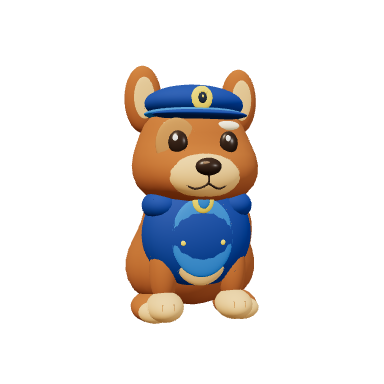
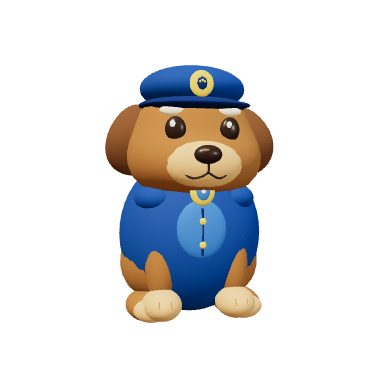
Polish the three branded friends to match their shows
Chase: swap the pointy upright ears for big floppy dark-brown ones,
build a proper police cap (dome, band, brim, paw badge) and a fitted
navy jacket that actually wraps the torso with a light-blue chest
panel, zipper, buttons, shoulder patches, plus the pup pack and a
collar badge.

Jett: enlarge the white face and eyes, widen the signature grin and
happy mouth, add the light-blue windshield band on the forehead, and
sweep the wings wider with bigger engine pods.

Peppa: dress up the red dress with gold hem ring, collar trim, wave
stripe and flower dots, and pin a five-petal red flower by the ear.

Expressions/performance/personality: add character signature shows
(policeSalute + pupSpin for Chase, jettLoop for Jett, pigGiggle for
Peppa), refresh the character descriptions, victory lines and home
hints, and give Peppa her own oinking synth voice instead of the
borrowed bunny one. All rig pivot names unchanged.

Changed region(s): [[0.25, 0.1562, 0.7188, 0.8438]]

diff --git a/src/newFriendsModel.js b/src/newFriendsModel.js
@@ -90,21 +90,58 @@ export function createMcqueenModel(){
  pivot(root,'Tail',[0,.4,-.65]);return root;
 }
 
-// A blue-uniform rescue pup and a red-and-white airplane friend.
+// A blue-uniform rescue pup: floppy dark ears, proper police cap and a fitted jacket.
+function chaseFloppyEar(){
+ const g=new THREE.SphereGeometry(1,24,28),p=g.attributes.position;
+ for(let i=0;i<p.count;i++){const t=(1-p.getY(i))/2;
+  p.setXYZ(i,p.getX(i)*(.105+.055*t),-.36*t,p.getZ(i)*.062+.05*Math.sin(t*Math.PI));}
+ g.computeVertexNormals();return g;
+}
 export function createChaseModel(){
  const root=createDogModel();root.name='Chase_Rescue_Pup';
- const brown=mat(0xa96332,.95),tan=mat(0xe9b77d,.95),navy=mat(0x224c98,.78),blue=mat(0x347ed0,.72),gold=mat(0xf3cd52,.55),ink=mat(0x263447,.6);
+ const brown=mat(0xa9723e,.95),tan=mat(0xe9b77d,.95),earBrown=mat(0x7c5231,.95),
+  navy=mat(0x2453a0,.8),deep=mat(0x1a3c78,.85),sky=mat(0x3f7fd6,.72),
+  gold=mat(0xf3cd52,.55),ink=mat(0x263447,.6),white=mat(0xf5f8ff,.5);
+ // 毛色：金棕身体 + 浅棕口鼻/胸口/爪尖/尾尖
  for(const name of ['Puppy_Plump_Body','Puppy_Head','Foreleg','Hind_Paw','Wagging_Tail'])root.traverse(o=>{if(o.name===name&&o.isMesh)o.material=brown;});
  for(const name of ['Cream_Chest','Cream_Muzzle','Cream_Forepaw','Cream_Hind_Toes','Cream_Tail_Tip'])root.traverse(o=>{if(o.name===name&&o.isMesh)o.material=tan;});
- for(const side of ['L','R']){const ear=root.getObjectByName('Ear_'+side);ear.clear();const s=side==='L'?-1:1;const outer=ellipsoid(ear,'Chase_Pointy_Ear',brown,[s*.015,.10,0],[.10,.18,.07]);outer.rotation.z=-s*.16;const inner=ellipsoid(ear,'Chase_Inner_Ear',tan,[s*.015,.10,.065],[.055,.11,.012]);inner.rotation.z=-s*.16;}
- const body=root.getObjectByName('Torso');ellipsoid(body,'Blue_Rescue_Vest',navy,[0,.05,.13],[.29,.29,.17]);ellipsoid(body,'Vest_Front',blue,[0,.045,.265],[.16,.20,.025]);
- const pack=mesh(new RoundedBoxGeometry(.42,.34,.18,4,.06),navy,body,'Rescue_Backpack',[0,.12,-.23]);
- ellipsoid(body,'Backpack_Top',blue,[0,.29,-.23],[.15,.04,.11]);
- for(const s of [-1,1]){ellipsoid(body,'Vest_Shoulder',navy,[s*.19,.20,.14],[.10,.08,.11]);ellipsoid(body,'Uniform_Button',gold,[s*.10,.02,.285],[.014,.014,.008]);}
- const head=root.getObjectByName('Head');const hat=pivot(head,'Police_Cap',[0,.25,-.005]);ellipsoid(hat,'Cap_Crown',navy,[0,.02,0],[.27,.105,.22]);ellipsoid(hat,'Cap_Band',blue,[0,-.035,.015],[.27,.038,.225]);ellipsoid(hat,'Cap_Brim',navy,[0,-.05,.17],[.245,.025,.12]);
- ellipsoid(hat,'Cap_Badge',gold,[0,.03,.213],[.055,.06,.014]);ellipsoid(hat,'Badge_Center',ink,[0,.03,.227],[.022,.028,.008]);
- for(const [x,y] of [[0,.035],[-.016,.055],[0,.061],[.016,.055]])ellipsoid(hat,'Cap_Paw',gold,[x,y,.238],[.006,.007,.004]);
- const bow=root.getObjectByName('Bow');bow.clear();ellipsoid(bow,'Collar_Badge',gold,[0,0,.035],[.055,.066,.02]);ellipsoid(bow,'Badge_Inset',blue,[0,0,.054],[.03,.04,.008]);
+ const patch=root.getObjectByName('Honey_Eye_Patch');if(patch)patch.visible=false;
+ const chest=root.getObjectByName('Cream_Chest');if(chest)chest.visible=false;
+ // 标志性大垂耳：深棕色，从头两侧自然垂到脸颊
+ for(const side of ['L','R']){
+  const earPivot=root.getObjectByName('Ear_'+side);earPivot.clear();earPivot.rotation.set(0,0,0);
+  const s=side==='L'?-1:1;earPivot.rotation.z=s*.16;
+  mesh(chaseFloppyEar(),earBrown,earPivot,'Chase_Floppy_Ear');
+ }
+ // 合身蓝色警服：外壳式夹克包住背部和两侧，浅蓝胸襟 + 纽扣 + 肩章
+ const body=root.getObjectByName('Torso');
+ ellipsoid(body,'Blue_Rescue_Vest',navy,[0,.01,-.02],[.365,.405,.30]);
+ ellipsoid(body,'Vest_Front',sky,[0,.05,.262],[.12,.14,.032]);
+ curve(body,'Vest_Zipper',[[0,-.07,.288],[0,.15,.288]],.007,deep);
+ for(const s of [-1,1]){
+  ellipsoid(body,'Vest_Shoulder',navy,[s*.195,.19,.10],[.105,.075,.115]);
+  ellipsoid(body,'Shoulder_Patch',sky,[s*.21,.20,.10],[.05,.035,.075]);
+ }
+ for(const y of [.09,-.02])ellipsoid(body,'Uniform_Button',gold,[0,y,.292],[.017,.017,.009]);
+ // 背部警用背包 + 顶部警灯
+ mesh(new RoundedBoxGeometry(.40,.32,.16,4,.06),deep,body,'Rescue_Backpack',[0,.10,-.30]);
+ ellipsoid(body,'Backpack_Top',navy,[0,.27,-.28],[.14,.045,.10]);
+ ellipsoid(body,'Backpack_Light',gold,[0,.29,-.20],[.032,.032,.016]);
+ // 立体警帽：圆顶 + 帽墙 + 帽檐 + 金色爪印警徽
+ const head=root.getObjectByName('Head');const hatNode=pivot(head,'Police_Cap',[0,.24,-.005]);
+ ellipsoid(hatNode,'Cap_Crown',navy,[0,.035,0],[.265,.115,.23]);
+ ellipsoid(hatNode,'Cap_Band',deep,[0,-.05,.005],[.272,.042,.238]);
+ ellipsoid(hatNode,'Cap_Brim',deep,[0,-.062,.17],[.25,.026,.125]);
+ ellipsoid(hatNode,'Cap_Visor_Glint',sky,[0,-.058,.20],[.16,.012,.06]);
+ ellipsoid(hatNode,'Cap_Badge',gold,[0,.03,.222],[.058,.062,.015]);
+ ellipsoid(hatNode,'Badge_Center',deep,[0,.03,.236],[.024,.03,.008]);
+ for(const [x,y,r] of [[0,.042,.007],[-.014,.056,.006],[.014,.056,.006],[-.011,.036,.006],[.011,.036,.006]])
+  ellipsoid(hatNode,'Cap_Paw',gold,[x,y,.242],[r,r*1.1,.004]);
+ // 胸前警徽（挂在 Bow 节点，动画兼容）
+ const bow=root.getObjectByName('Bow');bow.clear();
+ ellipsoid(bow,'Collar_Badge',gold,[0,0,.035],[.06,.068,.02]);
+ ellipsoid(bow,'Badge_Inset',sky,[0,0,.054],[.032,.042,.008]);
+ ellipsoid(bow,'Badge_Star',white,[0,0,.062],[.012,.012,.005]);
  return root;
 }
 export function createJettModel(){
@@ -119,8 +156,11 @@ export function createJettModel(){
  }
  const head=pivot(root,'Head',[0,.93,.02]);
  ellipsoid(head,'Red_Airplane_Head',red,[0,0,0],[.33,.29,.27]);
- ellipsoid(head,'Friendly_Face',white,[0,-.04,.21],[.26,.19,.08]);
- ellipsoid(head,'Helmet_Center',white,[0,.24,.06],[.07,.038,.18]);
+ // 大白脸：占头部下半大部分，乐迪的招牌圆润笑脸
+ ellipsoid(head,'Friendly_Face',white,[0,-.045,.215],[.285,.215,.085]);
+ // 额头蓝色风挡色带
+ ellipsoid(head,'Helmet_Center',mat(0x7cc4ee,.4),[0,.20,.165],[.205,.058,.105]);
+ ellipsoid(head,'Windshield_Glint',white,[0,.215,.24],[.10,.018,.02]);
  const topFinShape=new THREE.Shape();topFinShape.moveTo(-.02,0);topFinShape.lineTo(0,.13);topFinShape.lineTo(.04,0);topFinShape.closePath();
  const topFin=mesh(new THREE.ExtrudeGeometry(topFinShape,{depth:.018,bevelEnabled:true,bevelSize:.006,bevelThickness:.005}),red,head,'Head_Top_Fin',[0,.24,.02]);
  topFin.rotation.y=Math.PI/2;
@@ -128,14 +168,14 @@ export function createJettModel(){
  ellipsoid(head,'Helmet_Brow',red,[0,.115,.22],[.26,.05,.08]);
  const eyes=pivot(head,'Eyes',[0,0,0]);
  for(const s of [-1,1]){
-  const eye=pivot(eyes,s<0?'Eye_L':'Eye_R',[s*.115,.01,.265]);
-  ellipsoid(eye,'Eye_White',white,[0,0,0],[.055,.072,.025]);
-  ellipsoid(eye,'Iris',blue,[0,-.006,.016],[.042,.055,.014]);
-  ellipsoid(eye,'Eye',dark,[0,-.008,.024],[.024,.035,.01]);
-  ellipsoid(eye,'Catchlight',white,[-.014,.018,.032],[.012,.014,.005]);
-  ellipsoid(eye,'Catchlight_Small',white,[.012,-.015,.031],[.006,.007,.004]);
-  curve(head,s<0?'Brow_L':'Brow_R',[[s*.06,.10,.265],[s*.115,.12,.26],[s*.165,.095,.245]],.006,dark);
-  ellipsoid(head,s<0?'Blush_L':'Blush_R',pink,[s*.19,-.07,.23],[.042,.028,.012]);
+  const eye=pivot(eyes,s<0?'Eye_L':'Eye_R',[s*.12,.005,.265]);
+  ellipsoid(eye,'Eye_White',white,[0,0,0],[.064,.084,.027]);
+  ellipsoid(eye,'Iris',blue,[0,-.006,.017],[.05,.064,.015]);
+  ellipsoid(eye,'Eye',dark,[0,-.008,.026],[.028,.04,.011]);
+  ellipsoid(eye,'Catchlight',white,[-.016,.022,.036],[.013,.016,.006]);
+  ellipsoid(eye,'Catchlight_Small',white,[.014,-.018,.034],[.006,.007,.004]);
+  curve(head,s<0?'Brow_L':'Brow_R',[[s*.065,.115,.265],[s*.12,.135,.26],[s*.17,.105,.245]],.006,dark);
+  ellipsoid(head,s<0?'Blush_L':'Blush_R',pink,[s*.20,-.08,.23],[.046,.03,.012]);
   const ear=pivot(head,s<0?'Ear_L':'Ear_R',[s*.32,.03,0]);
   const earCup=mesh(new THREE.CylinderGeometry(.088,.088,.075,24),yellow,ear,'Headset_Pod',[s*.02,0,0]);earCup.rotation.z=Math.PI/2;
   const earRing=mesh(new THREE.CylinderGeometry(.092,.092,.02,24),white,ear,'Headset_Ring',[s*.055,0,0]);earRing.rotation.z=Math.PI/2;
@@ -157,17 +197,18 @@ export function createJettModel(){
   const tire=mesh(new THREE.CylinderGeometry(.046,.046,.016,16),dark,leg,'Boot_Wheel_Tire',[s*.098,-.15,.03]);tire.rotation.z=Math.PI/2;
   ellipsoid(leg,'Boot_Thruster',yellow,[0,-.14,-.07],[.035,.035,.02]);
   const wing=pivot(body,s<0?'Wing_L':'Wing_R',[s*.24,.08,-.06]);
-  const shape=new THREE.Shape();shape.moveTo(0,.09);shape.lineTo(s*.46,-.06);shape.lineTo(s*.40,-.20);shape.lineTo(0,-.12);shape.closePath();
+  const shape=new THREE.Shape();shape.moveTo(0,.10);shape.lineTo(s*.56,-.05);shape.lineTo(s*.50,-.24);shape.lineTo(0,-.13);shape.closePath();
   mesh(new THREE.ExtrudeGeometry(shape,{depth:.032,bevelEnabled:true,bevelSize:.012,bevelThickness:.008,bevelSegments:2}),red,wing,'Airplane_Wing');
-  ellipsoid(wing,'Wing_Tip',white,[s*.36,-.125,.025],[.075,.05,.032]);
-  const stripe=ellipsoid(wing,'Wing_Stripe',white,[s*.22,-.07,.038],[.12,.015,.01]);stripe.rotation.z=-s*.25;
-  const pod=mesh(new THREE.CylinderGeometry(.046,.046,.24,20),yellow,wing,'Jet_Engine',[s*.18,-.09,-.04]);pod.rotation.x=Math.PI/2;
-  ellipsoid(wing,'Engine_Intake',dark,[s*.18,-.09,.08],[.042,.042,.015]);
-  ellipsoid(wing,'Engine_Nozzle',silver,[s*.18,-.09,-.16],[.04,.04,.02]);
+  ellipsoid(wing,'Wing_Tip',white,[s*.44,-.15,.028],[.085,.055,.034]);
+  const stripe=ellipsoid(wing,'Wing_Stripe',white,[s*.26,-.095,.038],[.14,.016,.01]);stripe.rotation.z=-s*.22;
+  const pod=mesh(new THREE.CylinderGeometry(.046,.046,.27,20),yellow,wing,'Jet_Engine',[s*.21,-.11,-.04]);pod.rotation.x=Math.PI/2;
+  ellipsoid(wing,'Engine_Intake',dark,[s*.21,-.11,.095],[.042,.042,.015]);
+  ellipsoid(wing,'Engine_Nozzle',silver,[s*.21,-.11,-.175],[.04,.04,.02]);
  }
- curve(head,'Smile',[[-.09,-.135,.265],[0,-.175,.275],[.09,-.135,.265]],.007,dark);
- const happy=ellipsoid(head,'Happy_Mouth',dark,[0,-.14,.275],[.075,.045,.015]);happy.visible=false;
- const tongue=ellipsoid(head,'Happy_Tongue',pink,[0,-.155,.288],[.035,.016,.006]);tongue.visible=false;
+ // 乐迪的招牌大笑嘴：更宽更开朗
+ curve(head,'Smile',[[-.125,-.125,.255],[0,-.185,.272],[.125,-.125,.255]],.008,dark);
+ const happy=ellipsoid(head,'Happy_Mouth',dark,[0,-.145,.272],[.105,.052,.015]);happy.visible=false;
+ const tongue=ellipsoid(head,'Happy_Tongue',pink,[0,-.163,.286],[.045,.017,.006]);tongue.visible=false;
  const tail=pivot(root,'Tail',[0,.54,-.22]);
  const finShape=new THREE.Shape();finShape.moveTo(-.04,0);finShape.lineTo(-.01,.34);finShape.lineTo(.06,.34);finShape.lineTo(.08,0);finShape.closePath();
  mesh(new THREE.ExtrudeGeometry(finShape,{depth:.025,bevelEnabled:true,bevelSize:.01,bevelThickness:.006,bevelSegments:2}),red,tail,'Tail_Fin');
@@ -191,6 +232,12 @@ export function createPeppaModel(){
  // 红色 A 字连衣裙：下摆外扩、肩部收窄，剪出裙装轮廓
  const body=pivot(root,'Torso',[0,.45,0]);
  sculpt([[0,-.10,0,.30,.26,.21],[0,.02,0,.235,.225,.175],[0,.15,0,.175,.175,.15]],.06,red,body,'Red_Dress');
+ // 金黄滚边：下摆金环 + 领口金线 + 波浪纹，参考图的中式红裙
+ const trim=mat(0xf5c542,.85);
+ const hem=mesh(new THREE.TorusGeometry(.27,.016,10,48),trim,body,'Dress_Hem_Band',[0,-.055,0]);hem.rotation.x=Math.PI/2;
+ curve(body,'Dress_Collar_Trim',[[-.155,.145,.155],[0,.19,.175],[.155,.145,.155]],.012,trim);
+ curve(body,'Dress_Wave_Trim',[[-.19,.02,.205],[-.095,.07,.215],[0,.02,.225],[.095,.07,.215],[.19,.02,.205]],.009,trim);
+ for(const x of [-.09,0,.09])ellipsoid(body,'Dress_Flower_Dot',trim,[x,.115,.16],[.02,.02,.008]);
  // 圆头：左右完全对称，不再歪向一侧
  const head=pivot(root,'Head',[0,.995,0]);
  ellipsoid(head,'Pink_Pig_Head',pink,[0,0,0],[.27,.245,.235]);
@@ -217,7 +264,11 @@ export function createPeppaModel(){
  // 卷卷尾巴：绕一圈的小螺旋
  const tail=pivot(root,'Tail',[0,.42,-.18]);
  curve(tail,'Curly_Pig_Tail',[[0,0,0],[.05,.03,-.015],[.085,.075,-.02],[.07,.115,-.02],[.03,.115,-.02],[.02,.08,-.02],[.045,.055,-.02]],.013,pink);
- const bow=pivot(root,'Bow',[0,.64,.18]);return root;
+ // 头侧小红花（参考图造型）：五瓣红花金黄花蕊
+ const bow=pivot(root,'Bow',[.225,1.06,.10]);
+ for(let i=0;i<5;i++){const a=i/5*Math.PI*2;const petal=ellipsoid(bow,'Flower_Petal',red,[Math.cos(a)*.048,Math.sin(a)*.048,.02],[.034,.034,.013]);petal.rotation.z=a;}
+ ellipsoid(bow,'Flower_Center',trim,[0,0,.03],[.02,.02,.008]);
+ return root;
 }
 export function createThomasModel(){
  const root=new THREE.Group();root.name='Thomas_Train_Rig';

diff --git a/src/happyPerformance.js b/src/happyPerformance.js
@@ -151,8 +151,33 @@ const ACTIONS=[
   {id:'jettWave',dur:1.5,animals:['jett'],fn:(a,t,m)=>{const s=Math.sin(t*Math.PI*4)*m;a.rightArm.rotation.z=1.0+s*.3;a.headGroup.rotation.z=s*.06;}},
   {id:'pigJump',dur:1.5,animals:['peppa'],fn:(a,t,m)=>{const s=Math.abs(Math.sin(t*Math.PI*3))*m;a.animalGroup.position.y+=s*.14;a.leftArm.rotation.z=-s*.45;a.rightArm.rotation.z=s*.45;}},
   {id:'pigWave',dur:1.5,animals:['peppa'],fn:(a,t,m)=>{const s=Math.sin(t*Math.PI*4)*m;a.rightArm.rotation.z=1+s*.3;a.headGroup.rotation.z=s*.08;}},
+  // 三个新朋友的性格专属演出：阿奇敬礼/警犬旋风、乐迪空中翻滚、佩奇咯咯笑
+  {id:'policeSalute',dur:1.6,animals:['chase'],fn:(a,t,m)=>{
+    const s=Math.min(1,t*4);
+    a.rightArm.rotation.z=(2.15+Math.sin(t*Math.PI*3)*.06)*s*m;
+    a.headGroup.rotation.z=-s*.10*m;
+    a.tailGroup.rotation.y=Math.sin(t*Math.PI*6)*.35*m;
+  }},
+  {id:'pupSpin',dur:1.7,reset:a=>{a.model.rotation.y=0;},animals:['chase'],fn:(a,t,m)=>{
+    a.model.rotation.y=t*Math.PI*2*m;
+    const flap=Math.sin(t*Math.PI*4)*.18*m;
+    a.leftEarGroup.rotation.z=.15+flap;a.rightEarGroup.rotation.z=-.15-flap;
+    a.tailGroup.rotation.y=Math.sin(t*Math.PI*8)*.5*m;
+  }},
+  {id:'jettLoop',dur:1.8,reset:a=>{a.model.rotation.x=0;a.model.position.y=0;},animals:['jett'],fn:(a,t,m)=>{
+    a.model.rotation.x=-t*Math.PI*2*m;
+    a.model.position.y=Math.sin(t*Math.PI)*.10*m;
+    for(const [n,d] of [['Wing_L',-1],['Wing_R',1]]){const w=a.model.getObjectByName(n);if(w)w.rotation.y=d*Math.sin(t*Math.PI)*.5*m;}
+  }},
+  {id:'pigGiggle',dur:1.5,animals:['peppa'],fn:(a,t,m)=>{
+    const s=Math.sin(t*Math.PI*6);
+    a.bodyMesh.rotation.z=s*.10*m;
+    a.headGroup.rotation.z=-s*.13*m;
+    a.leftArm.rotation.z=-.5-s*.2*m;a.rightArm.rotation.z=.5+s*.2*m;
+    a.animalGroup.position.y+=Math.abs(Math.sin(t*Math.PI*3))*.045*m;
+  }},
 ];
-const SIGNATURES={bunny:['earWiggle','skyHop'],cat:['earWiggle','tailSway'],dog:['tailChase','headTilt'],frog:['croak','leapFrog'],dragon:['barrelRoll','wingFlutter'],goldenDragon:['swimS','cloudHover'],mcqueen:['raceRev','raceSway'],wolf:['tailChase','headTilt'],teddy:['bearHug','bearSway'],chase:['tailChase','headTilt'],jett:['jettFly','jettWave'],peppa:['pigJump','pigWave'],thomas:['raceRev','raceSway']};
+const SIGNATURES={bunny:['earWiggle','skyHop'],cat:['earWiggle','tailSway'],dog:['tailChase','headTilt'],frog:['croak','leapFrog'],dragon:['barrelRoll','wingFlutter'],goldenDragon:['swimS','cloudHover'],mcqueen:['raceRev','raceSway'],wolf:['tailChase','headTilt'],teddy:['bearHug','bearSway'],chase:['policeSalute','pupSpin','tailChase'],jett:['jettFly','jettLoop','jettWave'],peppa:['pigJump','pigGiggle','pigWave'],thomas:['raceRev','raceSway']};
 const FINALE=ACTIONS.find(x=>x.id==='finaleBow');
 
 // 结算后的"开心小演出"：动物自己走到台前随机表演，孩子和家长可以休息。

diff --git a/src/animalPlayStyles.js b/src/animalPlayStyles.js
@@ -6,10 +6,10 @@ export const ANIMAL_PLAY_STYLES = {
   dog: {name:'轻快连击', motion:'bounce', amplitudeX:13, amplitudeY:10, size:1, period:2.8, comboMs:2400, cooldownMs:700, jellyAt:[4], rainbowAt:[], hint:'轻快连戳，连击会亮起彩虹'},
   dragon: {name:'云间弧线', motion:'arc', amplitudeX:27, amplitudeY:17, size:.98, period:5.6, comboMs:2200, cooldownMs:900, jellyAt:[2,6], rainbowAt:[4], hint:'跟着云间弧线，遇见不同泡泡'},
   goldenDragon: {name:'祥云游动', motion:'serpentine', amplitudeX:22, amplitudeY:11, size:1, period:7, comboMs:2300, cooldownMs:950, jellyAt:[3], rainbowAt:[1,5], hint:'跟随祥云，慢慢画出一条曲线'},
-  peppa:{name:'快乐跳跳',motion:'hop',amplitudeX:0,amplitudeY:14,size:1.07,period:4.4,comboMs:2300,cooldownMs:900,jellyAt:[2],rainbowAt:[],hint:'和佩奇一起轻轻碰泡泡'},
+  peppa:{name:'快乐跳跳',motion:'hop',amplitudeX:0,amplitudeY:14,size:1.07,period:4.4,comboMs:2300,cooldownMs:900,jellyAt:[2],rainbowAt:[],hint:'和佩奇蹦蹦跳，像踩泥坑一样开心'},
   thomas:{name:'快乐列车',motion:'drift',amplitudeX:14,amplitudeY:3,size:1.05,period:6.4,comboMs:2300,cooldownMs:900,jellyAt:[3],rainbowAt:[],hint:'跟着托马斯一起寻找泡泡'},
-  chase:{name:'勇敢巡逻',motion:'bounce',amplitudeX:10,amplitudeY:7,size:1.05,period:3.8,comboMs:2400,cooldownMs:850,jellyAt:[3],rainbowAt:[],hint:'和阿奇一起寻找泡泡'},
-  jett:{name:'天空飞行',motion:'arc',amplitudeX:17,amplitudeY:10,size:1.04,period:6.1,comboMs:2300,cooldownMs:900,jellyAt:[3],rainbowAt:[5],hint:'和乐迪一起追逐泡泡'},
+  chase:{name:'勇敢巡逻',motion:'bounce',amplitudeX:10,amplitudeY:7,size:1.05,period:3.8,comboMs:2400,cooldownMs:850,jellyAt:[3],rainbowAt:[],hint:'阿奇敬礼出发，跟着巡逻节奏找泡泡'},
+  jett:{name:'天空飞行',motion:'arc',amplitudeX:17,amplitudeY:10,size:1.04,period:6.1,comboMs:2300,cooldownMs:900,jellyAt:[3],rainbowAt:[5],hint:'乐迪来啦！跟着飞行弧线冲上云霄'},
   mcqueen:{name:'闪电赛道',motion:'drift',amplitudeX:16,amplitudeY:5,size:1.05,period:5.8,comboMs:2300,cooldownMs:850,jellyAt:[3],rainbowAt:[5],hint:'和麦昆一起追逐泡泡'},
   wolf:{name:'森林追逐',motion:'bounce',amplitudeX:16,amplitudeY:8,size:1.02,period:3.4,comboMs:2300,cooldownMs:800,jellyAt:[3],rainbowAt:[5],hint:'和灰灰一起追逐泡泡'},
   teddy:{name:'温暖抱抱',motion:'drift',amplitudeX:9,amplitudeY:4,size:1.07,period:7.2,comboMs:2300,cooldownMs:950,jellyAt:[2],rainbowAt:[],hint:'慢慢伸手，和抱抱一起玩'}

diff --git a/src/config.js b/src/config.js
@@ -62,9 +62,9 @@ export const GAME_CONFIG = {
     mcqueen: {name:'闪电麦昆',targetBubbles:10,asset:'lightning-mcqueen',escapeStyle:'drive',description:'闪电赛道 · 和麦昆一起追逐轻快的泡泡。',victoryText:'麦昆开动轮子，开心地向你眨眼道谢。'},
     wolf: {name:'大灰狼 灰灰',targetBubbles:12,asset:'friendly-wolf',escapeStyle:'bound',description:'森林追逐 · 和灰灰一起追随轻快的泡泡。',victoryText:'灰灰摇着尾巴，开心地跑回森林。'},
     teddy: {name:'泰迪熊 抱抱',targetBubbles:8,asset:'teddy-bear',escapeStyle:'hop',description:'温暖抱抱 · 和抱抱一起慢慢收集泡泡。',victoryText:'抱抱开心地挥挥手，送你一个大大的拥抱。'},
-    chase:{name:'汪汪队 阿奇',targetBubbles:10,asset:'rescue-chase',escapeStyle:'bound',description:'勇敢巡逻 · 和阿奇一起寻找泡泡。',victoryText:'阿奇摇摇尾巴，开心地完成救援。'},
-    jett:{name:'超级飞侠 乐迪',targetBubbles:12,asset:'airplane-jett',escapeStyle:'fly',description:'天空飞行 · 和乐迪一起追逐云朵泡泡。',victoryText:'乐迪展开机翼，开心地飞过天空。'},
-    peppa:{name:'小猪佩奇',targetBubbles:8,asset:'peppa-pig',escapeStyle:'hop',description:'快乐跳跳 · 和佩奇一起慢慢收集泡泡。',victoryText:'佩奇开心地跳起来，挥手向你道谢。'},
+    chase:{name:'汪汪队 阿奇',targetBubbles:10,asset:'rescue-chase',escapeStyle:'bound',description:'勇敢靠谱的小警长，敬礼出发！跟着阿奇一起巡逻找泡泡。',victoryText:'阿奇敬了个礼：汪汪，任务完成啦！'},
+    jett:{name:'超级飞侠 乐迪',targetBubbles:12,asset:'airplane-jett',escapeStyle:'fly',description:'乐迪来啦！热情的飞行小英雄，带你在云朵间追泡泡。',victoryText:'乐迪在空中翻了个跟头，比出胜利手势！'},
+    peppa:{name:'小猪佩奇',targetBubbles:8,asset:'peppa-pig',escapeStyle:'hop',description:'爱跳泥坑的快乐小猪，咯咯咯的笑声最响亮。和佩奇一起轻轻收集泡泡。',victoryText:'佩奇开心地蹦了个泥坑舞，哈哈大笑！'},
     thomas:{name:'托马斯火车',targetBubbles:10,asset:'thomas-train',escapeStyle:'drive',description:'快乐列车 · 跟着托马斯追逐泡泡。',victoryText:'托马斯开动轮子，开心地向你道谢。'},
     panda: {
       name: '大熊猫 圆圆',

diff --git a/src/audioManager.js b/src/audioManager.js
@@ -388,7 +388,7 @@ export class AudioManager {
           break;
         case 'wolf': case 'chase': this._playDogSound(type); break;
         case 'jett': case 'thomas': this._playCarFriendSound(type); break;
-        case 'peppa': this._playBunnySound(type); break;
+        case 'peppa': this._playPeppaSound(type); break;
         case 'mcqueen': this._playCarFriendSound(type); break;
         case 'teddy': this._playBunnySound(type); break;
         case 'bunny':
@@ -692,6 +692,27 @@ export class AudioManager {
         osc.start(now + idx * 0.02);
         osc.stop(now + 0.34);
       });
+    }
+  }
+
+  // 佩奇专属：小猪哼哼声（低频鼻音 grunt，双声哼哼表现开心）
+  _playPeppaSound(type) {
+    const now=this.ctx.currentTime;
+    const oinks=type==='escape'?[[0,.26],[.15,.30],[.30,.34]]
+      :type==='happy'?[[0,.24],[.14,.22]]
+      :[[0,.22]];
+    for(const [off,len] of oinks){
+      const osc=this.ctx.createOscillator(),lp=this.ctx.createBiquadFilter(),gain=this.ctx.createGain();
+      osc.type='sawtooth';lp.type='lowpass';
+      lp.frequency.setValueAtTime(650,now+off);lp.frequency.exponentialRampToValueAtTime(380,now+off+len);
+      osc.frequency.setValueAtTime(150,now+off);
+      osc.frequency.exponentialRampToValueAtTime(92,now+off+len*.55);
+      osc.frequency.exponentialRampToValueAtTime(128,now+off+len);
+      gain.gain.setValueAtTime(.001,now+off);
+      gain.gain.linearRampToValueAtTime(.17,now+off+.025);
+      gain.gain.exponentialRampToValueAtTime(.001,now+off+len);
+      osc.connect(lp);lp.connect(gain);gain.connect(this.sfxGainNode||this.ctx.destination);
+      osc.start(now+off);osc.stop(now+off+len+.01);
     }
   }
 
